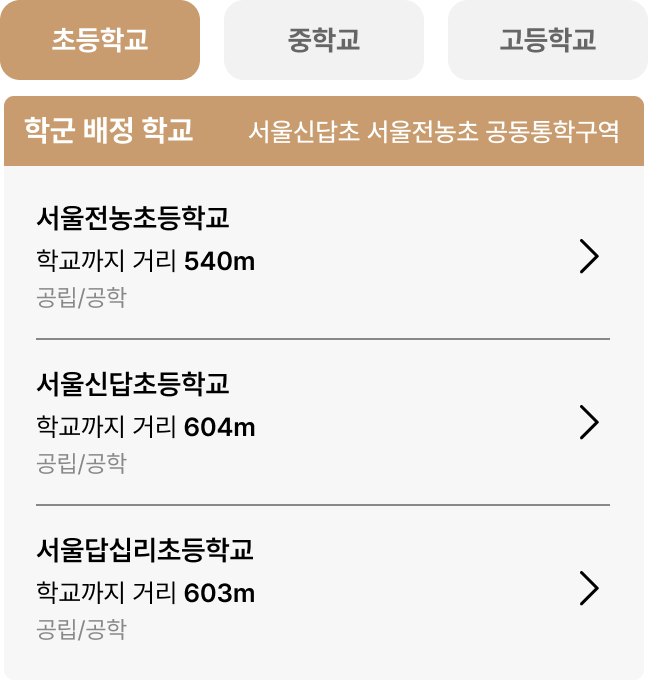
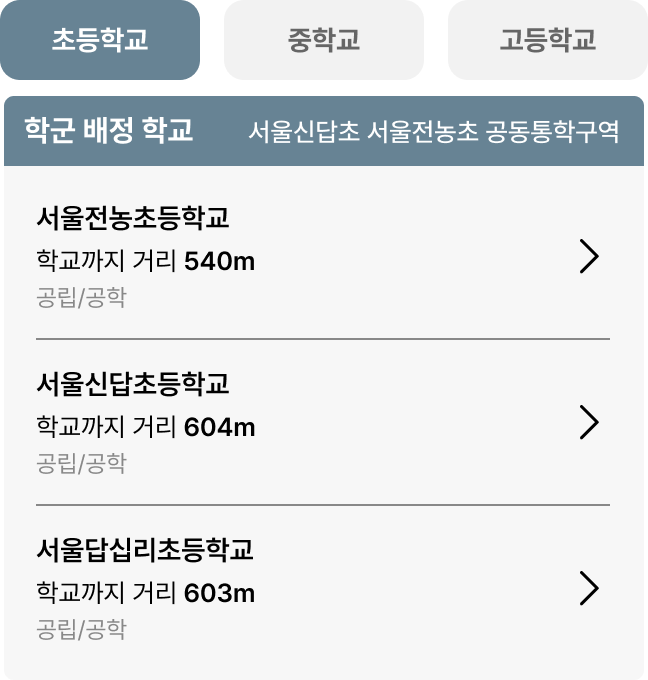
upload2

Changed region(s): [[0.0, 0.0, 1.0, 0.2471]]

diff --git a/css/style.css b/css/style.css
@@ -823,6 +823,9 @@ legend,
 .w100 {
   width: 100%;
 }
+.mw344 {
+  min-width: 34.4rem;
+}
 .min704 {
   min-width: 70.4rem;
 }
@@ -1473,7 +1476,7 @@ button {
   display: block;
   text-align: center;
   padding: 1.4rem 2.0rem;
-  background: #C69B6E;
+  background: #678394;
   color: var(--white);
   font-size: 1.6rem;
   font-weight: 700;
@@ -1509,8 +1512,8 @@ button {
   padding: 1.4rem 2.0rem;
   min-height: 4.6rem;
   background: var(--white);
-  color: #C69B6E;
-  border: .1rem solid #C69B6E;
+  color: #678394;
+  border: .1rem solid #678394;
   font-size: 1.4rem;
   font-weight: 700;
   border-radius: 1.0rem;
@@ -1884,35 +1887,35 @@ button {
 }
 .nav-foot__cont ul li.ico-nav1.active a {
   background: url("../images/ico_home_active.svg") no-repeat center 0 / 2.4rem;
-  color: #C69B6E;
+  color: #678394;
 }
 .nav-foot__cont ul li.ico-nav2 {
   background: url("../images/ico_around.svg") no-repeat center 0 / 2.4rem;
 }
 .nav-foot__cont ul li.ico-nav2.active a {
   background: url("../images/ico_around_active.svg") no-repeat center 0 / 2.4rem;
-  color: #C69B6E;
+  color: #678394;
 }
 .nav-foot__cont ul li.ico-nav3 {
   background: url("../images/ico_heart.svg") no-repeat center 0 / 2.4rem;
 }
 .nav-foot__cont ul li.ico-nav3.active a {
   background: url("../images/ico_heart_active.svg") no-repeat center 0 / 2.4rem;
-  color: #C69B6E;
+  color: #678394;
 }
 .nav-foot__cont ul li.ico-nav4 {
   background: url("../images/ico_list.svg") no-repeat center 0 / 2.4rem;
 }
 .nav-foot__cont ul li.ico-nav4.active a {
   background: url("../images/ico_list_active.svg") no-repeat center 0 / 2.4rem;
-  color: #C69B6E;
+  color: #678394;
 }
 .nav-foot__cont ul li.ico-nav5 {
   background: url("../images/ico_moreview.svg") no-repeat center 0 / 2.4rem;
 }
 .nav-foot__cont ul li.ico-nav5.active a {
   background: url("../images/ico_moreview_active.svg") no-repeat center 0 / 2.4rem;
-  color: #C69B6E;
+  color: #678394;
 }
 
 .nav-foot__cont ul li a {
@@ -2102,6 +2105,9 @@ button {
   font-weight: 700;
   &.gray {
     color: rgba(0, 0, 0, 0.70) !important;
+  }
+  &.gray58 {
+    color: #58687F;
   }
   &.grayaa {
     color: #aaa;
@@ -5584,9 +5590,9 @@ input[type="number"]::-webkit-inner-spin-button {
     font-weight: 400;
     border-radius: 5px;
     padding: 5.5px 1rem;
-    color:#C89C6F;
+    color:#678394;
     background: var(--white);
-    border: 1px solid #C89C6F;
+    border: 1px solid #678394;
   }
   &.gray {
     font-size: 6.75px;
@@ -5656,7 +5662,7 @@ input[type="number"]::-webkit-inner-spin-button {
     width: 100%;
     background: var(--white);
     padding: 20px 16px;
-    color: #404F65;
+    color: #58687F;
     font-size: 16px;
     font-weight: 600;
   }

diff --git a/home.html b/home.html
@@ -3,7 +3,7 @@
   <head>
     <meta charset="UTF-8" />
     <meta name="viewport" content="width=device-width, initial-scale=1.0" />
-    <title>홈 마스터</title>
+    <title>메이크홈</title>
     <script src="https://ajax.googleapis.com/ajax/libs/jquery/3.6.0/jquery.min.js"></script>
     <link rel="stylesheet" href="css/reset.css" />
     <link rel="stylesheet" href="css/style.css" />
@@ -21,13 +21,12 @@
     </header>
     <main class="main pb100">
       <section class="content">
-        
         <div class="text-type4 fz20 px16 pt37">
           1인 가구를 위한 통합 주거 마스터,<br>
           부동산은 홈마스터에서          
         </div>
-        <div class="img-wrap2 px16 pt24">
-          <img src="images/@img_master1.png" alt="">
+        <div class="img-wrap2 px16 pt24" onclick="alert('준비중입니다')">
+          <img src="images/@img_make1.png" alt="">
         </div>
         <div class="align vm px16 pt20">
           <button class="btn-main-on w100" type="button" onclick="alert('준비중입니다')">중개 성공 사례</button>
@@ -37,19 +36,21 @@
           1인 가구를 위한 통합 주거 마스터,<br>
           부동산은 메이크홈에서          
         </div>
-        <div class="img-wrap2 px16 pt24">
-          <img src="images/@img_master2.png" alt="">
-        </div>
-        <div class="px16 pt18">
-          <button class="btn-main-on w100" type="button" id="btnProgress">이어서 진행하기</button>
+        <div id="btnProgress">
+          <div class="img-wrap2 px16 pt24">
+            <img src="images/@img_make2.png" alt="">
+          </div>
+          <div class="px16 pt18">
+            <button class="btn-main-on w100" type="button">이어서 진행하기</button>
+          </div>
         </div>
         <div class="border-10 mt35"></div>
         <div class="text-type4 fz20 px16 pt34">
           청년주택 공고를<br>
           실시간으로 받아보세요          
         </div>
-        <div class="img-wrap2 px16 pt24">
-          <img src="images/@img_master3.png" alt="">
+        <div class="img-wrap2 px16 pt24 scroll-x">
+          <img class="mw344" src="images/@img_master3.png" alt="">
         </div>
 
         <div class="px16 pt30">
@@ -70,7 +71,7 @@
       </div>      
       <div class="layer"></div>
       <div class="modal-1">
-        <div class="text-type4 fz16 fw400 lh155 txt-center pt50 pb50 border-bottom">
+        <div class="text-type4 fz16 fw400 lh155 txt-center pt50 pb50 border-bottom gray58">
           저장된 인테리어 진행 내역이 있습니다<br>
           불러오시겠습니까?
         </div>

diff --git a/search2.html b/search2.html
@@ -19,8 +19,11 @@
     </header>
     <main class="main pb100">
       <section class="content">
-        <div class="img-wrap2 pt10" onclick="location.href='detail.html'">
-          <img src="images/@img_master5.png" alt="">
+        <div class="img-wrap2 pt10" onclick="alert('준비중입니다')">
+          <img src="images/@img_make4.png" alt="">
+        </div>
+        <div class="img-wrap2 pt10 px16" onclick="location.href='detail.html'">
+          <img src="images/@img_make5.png" alt="">
         </div>
       </section>
       <div class="nav-foot">

diff --git a/detail.html b/detail.html
@@ -47,7 +47,7 @@
         <div class="align both vm px16 pt40">
           <div class="text-type4 fz20">중개사무소의 중개 성공 사례</div> 
           <div class="badge line" onclick="alert('준비중입니다')">더보기</div>
-        </div>                         
+        </div>
         <div class="img-wrap2 pt24 scroll-x">
           <img class="min704" src="images/@img_master13.png" alt="">
         </div> 
